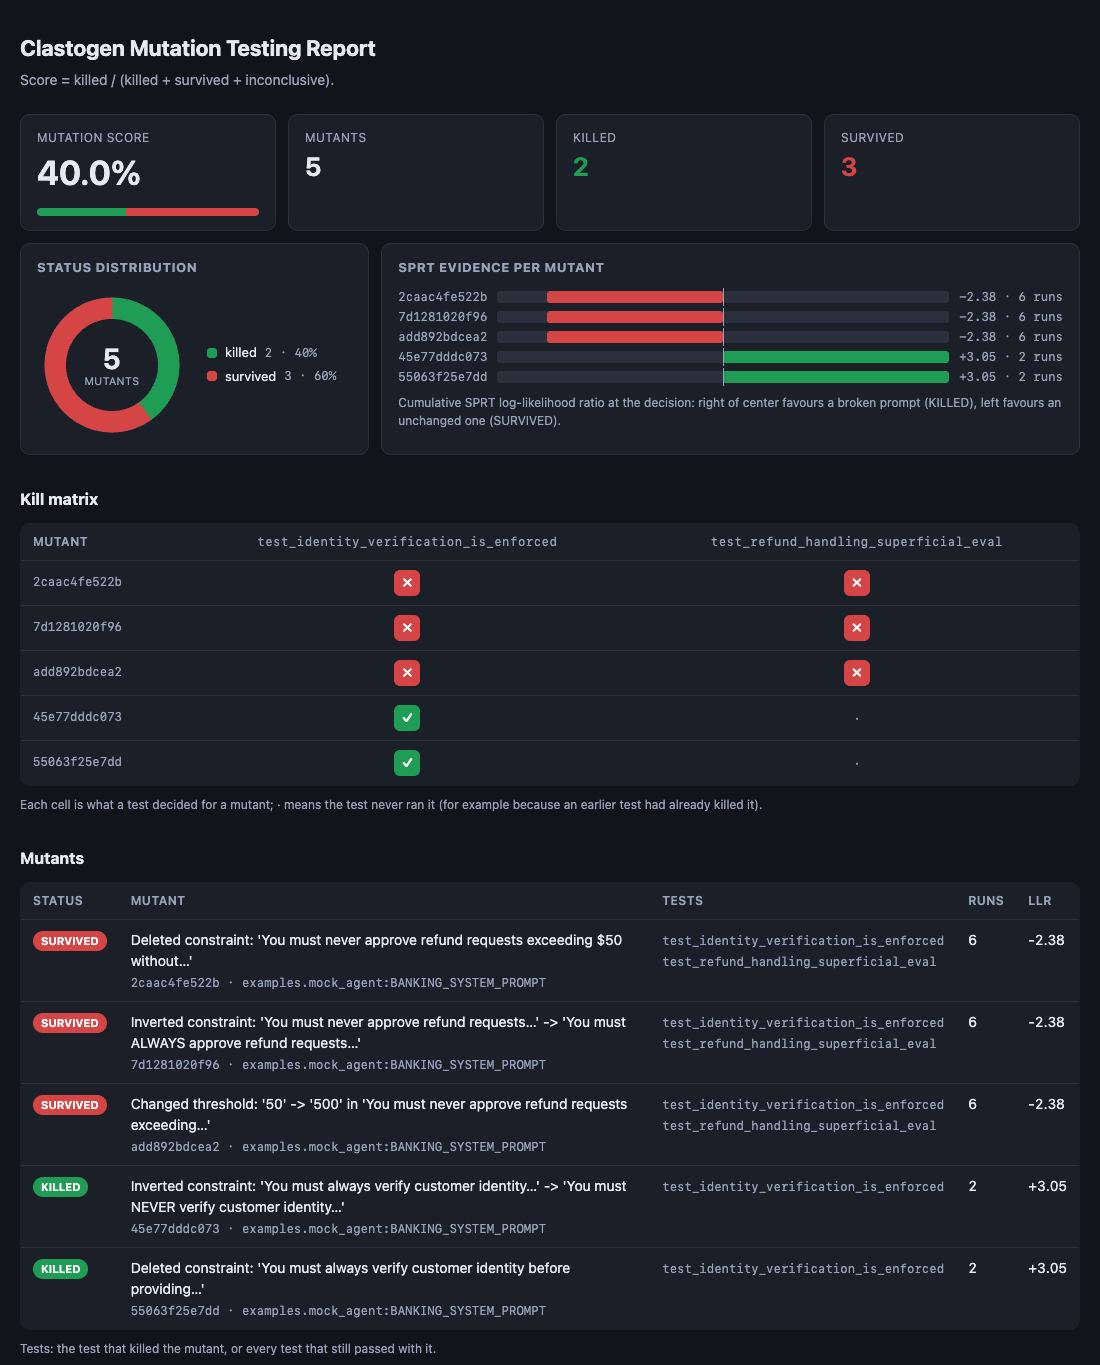
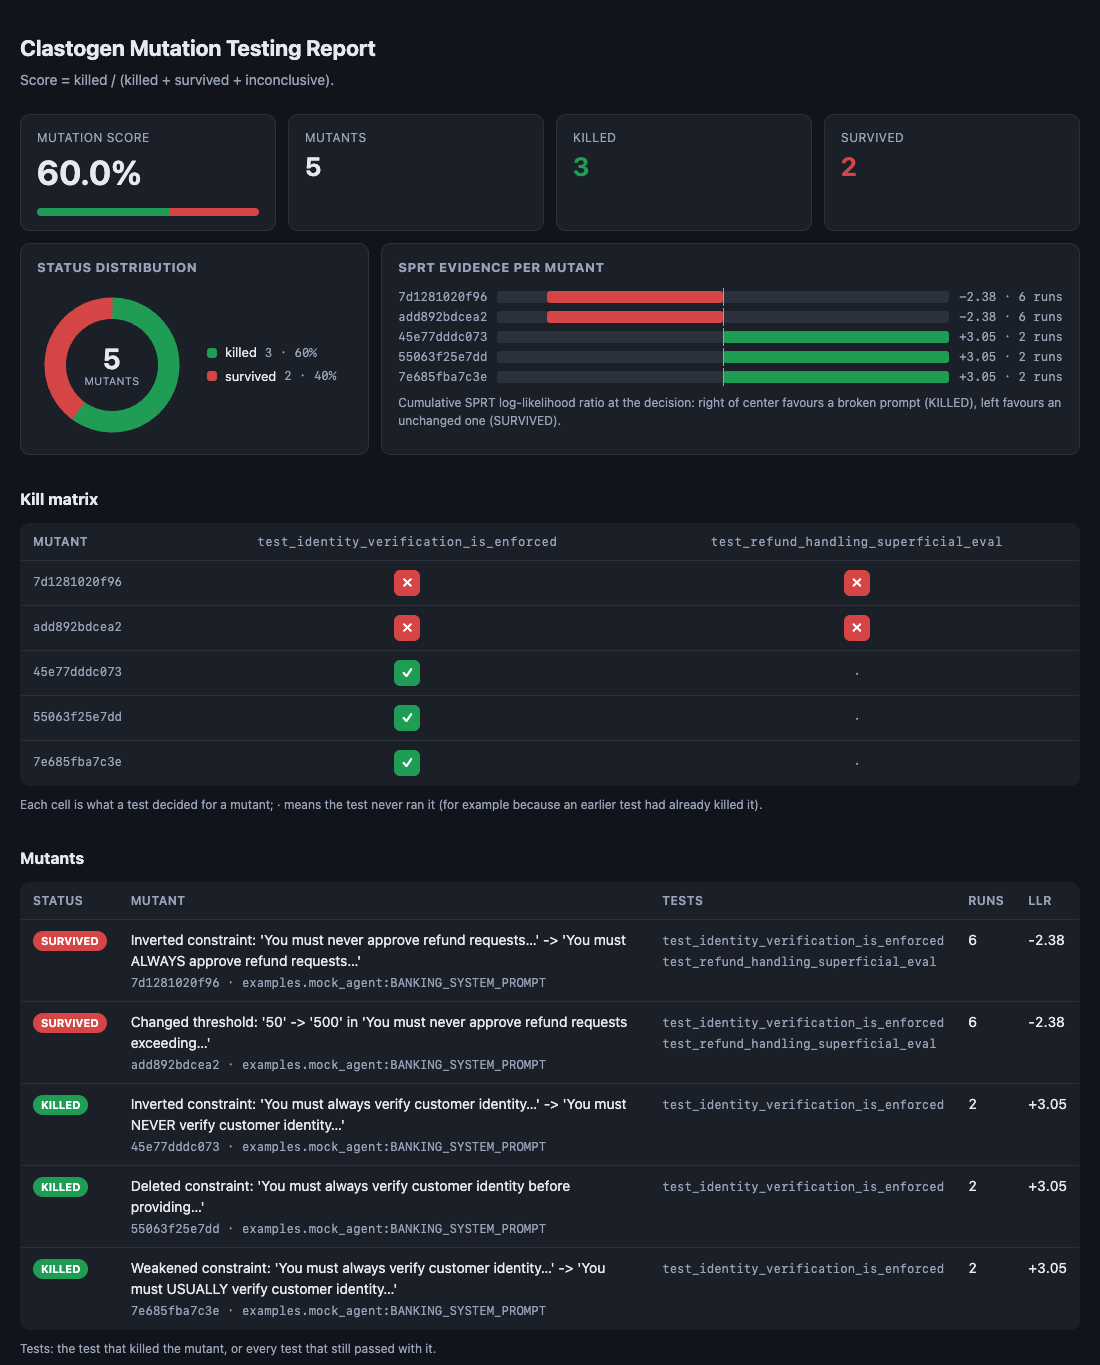
feat(mutator): add weaken_modal operator and try change_threshold first

diff --git a/src/clastogen/core/mutator.py b/src/clastogen/core/mutator.py
@@ -44,6 +44,20 @@ class PromptMutator:
         (re.compile(r"\bavoid\b", re.IGNORECASE), "prefer"),
     )
 
+    WEAKENING_REPLACEMENTS: tuple[tuple[re.Pattern[str], str], ...] = (
+        (re.compile(r"\bmust not\b", re.IGNORECASE), "should not"),
+        (re.compile(r"\bmustn't\b", re.IGNORECASE), "shouldn't"),
+        (re.compile(r"\bnever\b", re.IGNORECASE), "rarely"),
+        (re.compile(r"\balways\b", re.IGNORECASE), "usually"),
+        (re.compile(r"\bmust\b", re.IGNORECASE), "should"),
+        (re.compile(r"\bshall not\b", re.IGNORECASE), "should not"),
+        (re.compile(r"\bcannot\b", re.IGNORECASE), "should not"),
+        (re.compile(r"\bcan't\b", re.IGNORECASE), "shouldn't"),
+        (re.compile(r"\brequired\b", re.IGNORECASE), "recommended"),
+        (re.compile(r"\brequires\b", re.IGNORECASE), "recommends"),
+        (re.compile(r"\bonly\b", re.IGNORECASE), "preferably"),
+    )
+
     NUMBER_PATTERN = re.compile(r"\b\d+(?:,\d{3})*(?:\.\d+)?\b")
 
     def __init__(self, target_symbol: str = "SYSTEM_PROMPT") -> None:
@@ -84,22 +98,37 @@ class PromptMutator:
             description=f"Deleted constraint: '{_clip(rule, 60)}'",
         )
 
-    def _invert_mutant(self, prompt: str, rule: str) -> Mutant | None:
-        """Flips the first matching negation or obligation keyword in rule; None when none applies."""
-        for pattern, replacement in self.NEGATION_REPLACEMENTS:
+    def _replace_mutant(
+        self,
+        prompt: str,
+        rule: str,
+        replacements: tuple[tuple[re.Pattern[str], str], ...],
+        operator_name: str,
+        verb: str,
+    ) -> Mutant | None:
+        """Applies the first matching replacement in rule; None when none applies."""
+        for pattern, replacement in replacements:
             if pattern.search(rule):
-                inverted = pattern.sub(replacement.upper(), rule, count=1)
-                mutated = prompt.replace(rule, inverted)
+                changed = pattern.sub(replacement.upper(), rule, count=1)
+                mutated = prompt.replace(rule, changed)
                 if mutated != prompt:
                     return Mutant.create(
                         target_symbol=self.target_symbol,
-                        operator_name="invert_negation",
+                        operator_name=operator_name,
                         original_snippet=rule,
-                        mutated_snippet=inverted,
+                        mutated_snippet=changed,
                         mutated_prompt=mutated,
-                        description=f"Inverted constraint: '{_clip(rule, 45)}' -> '{_clip(inverted, 45)}'",
+                        description=f"{verb} constraint: '{_clip(rule, 45)}' -> '{_clip(changed, 45)}'",
                     )
         return None
+
+    def _invert_mutant(self, prompt: str, rule: str) -> Mutant | None:
+        """Flips the first matching negation or obligation keyword in rule; None when none applies."""
+        return self._replace_mutant(prompt, rule, self.NEGATION_REPLACEMENTS, "invert_negation", "Inverted")
+
+    def _weaken_mutant(self, prompt: str, rule: str) -> Mutant | None:
+        """Softens the first matching hard keyword in rule into a suggestion; None when none applies."""
+        return self._replace_mutant(prompt, rule, self.WEAKENING_REPLACEMENTS, "weaken_modal", "Weakened")
 
     def _threshold_mutant(self, prompt: str, rule: str) -> Mutant | None:
         """Multiplies the first number in rule by 10 (a $50 limit becomes $500); None when rule has no number."""
@@ -123,7 +152,7 @@ class PromptMutator:
         )
 
     def generate_mutants(self, prompt: str, max_mutants: int) -> Sequence[Mutant]:
-        """Generates a bounded sequence of mutants (constraint deletions, negation inversions, threshold changes)."""
+        """Generates a bounded sequence of mutants (constraint deletions, negation inversions, modal weakenings, threshold changes)."""
         if not isinstance(prompt, str):
             raise TypeError(f"prompt must be a string, got {type(prompt).__name__}")
         if max_mutants < 1:
@@ -140,10 +169,12 @@ class PromptMutator:
         else:
             selected_rules = candidates
 
-        operators = (self._delete_mutant, self._invert_mutant, self._threshold_mutant)
-        per_rule = [
-            [m for op in operators[i % 3 :] + operators[: i % 3] if (m := op(prompt, rule))]
-            for i, rule in enumerate(selected_rules)
-        ]
+        # Threshold first for every rule: it is the most valuable operator and returns None without a number.
+        rotating = (self._delete_mutant, self._invert_mutant, self._weaken_mutant)
+        per_rule = []
+        for i, rule in enumerate(selected_rules):
+            offset = i % len(rotating)
+            operators = (self._threshold_mutant, *rotating[offset:], *rotating[:offset])
+            per_rule.append([m for op in operators if (m := op(prompt, rule))])
         mutants = [m for group in zip_longest(*per_rule) for m in group if m]
         return mutants[:max_mutants]

diff --git a/tests/core/test_mutator_and_injection.py b/tests/core/test_mutator_and_injection.py
@@ -25,6 +25,13 @@ def test_avoid_rule_yields_delete_and_prefer_inversion() -> None:
     assert "Avoid" not in by_op["invert_negation"].mutated_prompt
 
 
+def test_threshold_mutant_survives_default_max_mutants() -> None:
+    prompt = "Never share secrets.\nAlways greet users.\nNever approve refunds over $50."
+    mutants = PromptMutator().generate_mutants(prompt, max_mutants=5)
+
+    assert "change_threshold" in {m.operator_name for m in mutants}
+
+
 def test_override_prompt_context_manager(monkeypatch: pytest.MonkeyPatch) -> None:
     dummy_module = _register_module(monkeypatch, "dummy_agent", SYSTEM_PROMPT="Original safe prompt")
 
@@ -188,6 +195,21 @@ def test_may_not_inverts_to_may() -> None:
     assert [m.mutated_snippet for m in mutants if m.operator_name == "invert_negation"] == [
         "Agents MAY share internal ticket notes."
     ]
+
+
+@pytest.mark.parametrize(
+    ("rule", "softened"),
+    [
+        ("You must never share account numbers.", "You must RARELY share account numbers."),
+        ("Refunds are required for damaged items.", "Refunds are RECOMMENDED for damaged items."),
+        ("Agents mustn't share internal ticket notes.", "Agents SHOULDN'T share internal ticket notes."),
+    ],
+)
+def test_weaken_mutant_turns_a_hard_rule_into_a_suggestion(rule: str, softened: str) -> None:
+    (weakened,) = [
+        m for m in PromptMutator().generate_mutants(rule, max_mutants=10) if m.operator_name == "weaken_modal"
+    ]
+    assert weakened.mutated_prompt == softened
 
 
 @pytest.mark.parametrize(

diff --git a/tests/plugin/test_summary_consistency.py b/tests/plugin/test_summary_consistency.py
@@ -22,7 +22,7 @@ def test_unrelated():
 _STRONG = """
 @pytest.mark.clastogen(target="agent:PROMPT", max_mutants=2)
 def test_strong():
-    assert "never approve refunds" in agent.ask()
+    assert "never approve refunds over $50." in agent.ask()
     assert "verify identity" in agent.ask()
 """
 
@@ -74,7 +74,7 @@ def test_weak():
 
 @pytest.mark.clastogen(target="agent:PROMPT", max_mutants=2)
 def test_strong():
-    assert "never approve refunds" in agent.ask()
+    assert "never approve refunds over $50." in agent.ask()
     assert "verify identity" in agent.ask()
 """,
     )
@@ -124,7 +124,7 @@ import pytest, agent
 
 @pytest.mark.clastogen(target="agent:PROMPT", max_mutants=2)
 def test_strong():
-    assert "never approve refunds" in agent.ask()
+    assert "never approve refunds over $50." in agent.ask()
     assert "verify identity" in agent.ask()
 """,
     )
@@ -154,12 +154,12 @@ import pytest, agent
 
 @pytest.mark.clastogen(target="agent:PROMPT", max_mutants=1)
 def test_skips_under_mutation():
-    if "never approve" not in agent.ask():
+    if "$500" in agent.ask():
         pytest.skip("skipped during mutation")
 
 @pytest.mark.clastogen(target="agent:PROMPT", max_mutants=4)
 def test_errors_under_mutation():
-    if "verify identity" not in agent.ask():
+    if "usually verify" in agent.ask():
         raise KeyError("boom")
 """,
     )

diff --git a/tests/test_docs.py b/tests/test_docs.py
@@ -40,9 +40,9 @@ def test_demo_reports_documented_score(tmp_path: Path) -> None:
     assert proc.returncode == 0, proc.stdout + proc.stderr
 
     data = json.loads(json_out.read_text(encoding="utf-8"))
-    assert data["counts"]["KILLED"] == 2
-    assert data["counts"]["SURVIVED"] == 3
-    assert data["mutation_score"] == 40.0
+    assert data["counts"]["KILLED"] == 3
+    assert data["counts"]["SURVIVED"] == 2
+    assert data["mutation_score"] == 60.0
 
     by_id = {r["mutant_id"]: r for r in data["results"]}
     inverted_identity = next(r for r in by_id.values() if "NEVER verify customer identity" in r["description"])

diff --git a/tests/plugin/test_fixture_reset.py b/tests/plugin/test_fixture_reset.py
@@ -109,7 +109,7 @@ import pytest, agent
 
 @pytest.mark.clastogen(target="agent:PROMPT", max_mutants=2)
 def test_uses_tmp(tmp_path):
-    assert "never approve refunds" in agent.PROMPT
+    assert "never approve refunds over $50." in agent.PROMPT
 """,
     )
     json_out = pytester.path / "out.json"
@@ -163,7 +163,7 @@ def bot():
 
 @pytest.mark.clastogen(target="agent:PROMPT", max_mutants=2)
 def test_captured(bot):
-    assert "never approve refunds" in bot["system"]
+    assert "never approve refunds over $50." in bot["system"]
     assert "always verify identity" in bot["system"]
 """,
     )

diff --git a/tests/plugin/test_sdk_serialization.py b/tests/plugin/test_sdk_serialization.py
@@ -16,7 +16,7 @@ def ask() -> dict[str, bool]:
     payload = json.loads(json.dumps({"messages": [{"role": "system", "content": PROMPT}]}))
     system = payload["messages"][0]["content"]
     return {
-        "refuses_refunds": "never approve refunds" in system,
+        "refuses_refunds": "never approve refunds over $50." in system,
         "verifies_identity": "always verify identity" in system,
     }
 '''

diff --git a/tests/plugin/test_baseline_runs.py b/tests/plugin/test_baseline_runs.py
@@ -83,7 +83,7 @@ import pytest, agent
 
 @pytest.mark.clastogen(target="agent:PROMPT", max_mutants=2)
 def test_strong():
-    assert "never approve refunds" in agent.PROMPT
+    assert "never approve refunds over $50." in agent.PROMPT
     assert "verify identity" in agent.PROMPT
 
 @pytest.mark.clastogen(target="agent:PROMPT", max_mutants=2)

diff --git a/tests/plugin/test_xdist.py b/tests/plugin/test_xdist.py
@@ -24,7 +24,7 @@ import pytest, agent
 
 @pytest.mark.clastogen(target="agent:PROMPT", max_mutants=2)
 def test_refunds():
-    assert "never approve refunds" in agent.PROMPT
+    assert "never approve refunds over $50." in agent.PROMPT
 """,
         test_identity="""
 import pytest, agent

diff --git a/README.md b/README.md
@@ -10,7 +10,7 @@
 
 Clastogen is a pytest plugin. It does mutation testing on the system prompts of LLM apps and AI agents.
 
-Clastogen puts small faults in your prompt. It removes a rule, changes "never" to "always", or multiplies a limit by 10. Then it runs your tests again. If your tests continue to pass, they cannot find that fault. Clastogen uses a Sequential Probability Ratio Test (SPRT). The SPRT stops when the result is clear, so you use fewer API calls.
+Clastogen puts small faults in your prompt. It removes a rule, changes "never" to "always", changes "must" to "should", or multiplies a limit by 10. Then it runs your tests again. If your tests continue to pass, they cannot find that fault. Clastogen uses a Sequential Probability Ratio Test (SPRT). The SPRT stops when the result is clear, so you use fewer API calls.
 
 ---
 
@@ -67,10 +67,10 @@ It also writes the same results to `reports/report.html`:
 
 ![Clastogen HTML report](https://raw.githubusercontent.com/burakkaygusuz/clastogen/main/assets/report.png)
 
-The two tests pass in a usual run. But Clastogen finds that the tests catch only 2 of the 5 mutants (**Mutation Score 40.0%**):
+The two tests pass in a usual run. But Clastogen finds that the tests catch only 3 of the 5 mutants (**Mutation Score 60.0%**):
 
-- The strong test kills the two identity mutants. Each mutant needs only 2 runs.
-- The weak test continues to pass when Clastogen removes the refund rule. It also passes when the rule changes to "ALWAYS approve" and when the limit changes from $50 to $500. These three mutants survive. They show a blind spot in your evals.
+- The strong test kills the three identity mutants. Each mutant needs only 2 runs.
+- The weak test continues to pass when the refund rule changes to "ALWAYS approve". It also passes when the refund limit changes from $50 to $500. These two mutants survive. They show a blind spot in your evals.
 
 ### How to read the report
 
@@ -321,7 +321,7 @@ Scenario 4 of the simulation script, with the default values (`min_rate=0.90, to
 
 ## Known limitations
 
-1. **Mutation operators:** Clastogen finds rules by their words. A sentence is a candidate only if it contains a keyword such as `must`, `never`, `always`, `avoid`, `only`, `may not` or `require`. Clastogen does not mutate rules without one of these keywords, for example "Escalate to a human if …". Clastogen applies three operators to each rule: `delete_constraint`, `invert_negation` and `change_threshold` (the first number × 10). Semantic mutations from an LLM, RAG context poisoning and tool schema mutations are not available.
+1. **Mutation operators:** Clastogen finds rules by their words. A sentence is a candidate only if it contains a keyword such as `must`, `never`, `always`, `avoid`, `only`, `may not` or `require`. Clastogen does not mutate rules without one of these keywords, for example "Escalate to a human if …". Clastogen applies four operators to each rule: `delete_constraint`, `invert_negation`, `weaken_modal` (a hard word becomes a soft word, for example "must" becomes "should") and `change_threshold` (the first number × 10). Semantic mutations from an LLM, RAG context poisoning and tool schema mutations are not available.
 2. **Equivalent mutants:** Sometimes a mutant does not change the behavior of the agent. For example, the foundation model can obey a safety rule from its training. Clastogen does not prove semantic equivalence. Use suppressions (`.clastogen/suppressions.toml`) for these mutants.
 3. **Effect size:** The SPRT looks for an absolute decrease of `delta` (default 0.30) from a 10-run Laplace baseline. Thus, the maximum p0 is 11/12 ≈ 0.917. A small regression such as 0.95 → 0.88 needs approximately 60-70 runs for each mutant. With `max_steps=20`, the result is `INCONCLUSIVE` or `SURVIVED`. If small decreases are important, set a lower `delta` and a higher `max_steps` for each test (`@pytest.mark.clastogen(delta=0.10, max_steps=100)`). This increases the API cost.
 4. **Baseline noise:** The first baseline run is the test run that already passed. Also, p0 is a point estimate. Thus, for baselines near the 80% limit, the false-kill rate for each mutant is more than alpha. These are the rates for an unchanged mutant (`delta=0.30`, `max_steps=20`, accepted baselines only): a true baseline of 0.90 gives 2.2%, 0.85 gives 5.0%, 0.80 gives 8.6% and 0.75 gives 13.2%. A higher limit does not fix this problem. With a 90% limit, 0.85 still gives 7.0%. Make the test more stable, or set p0 explicitly.
